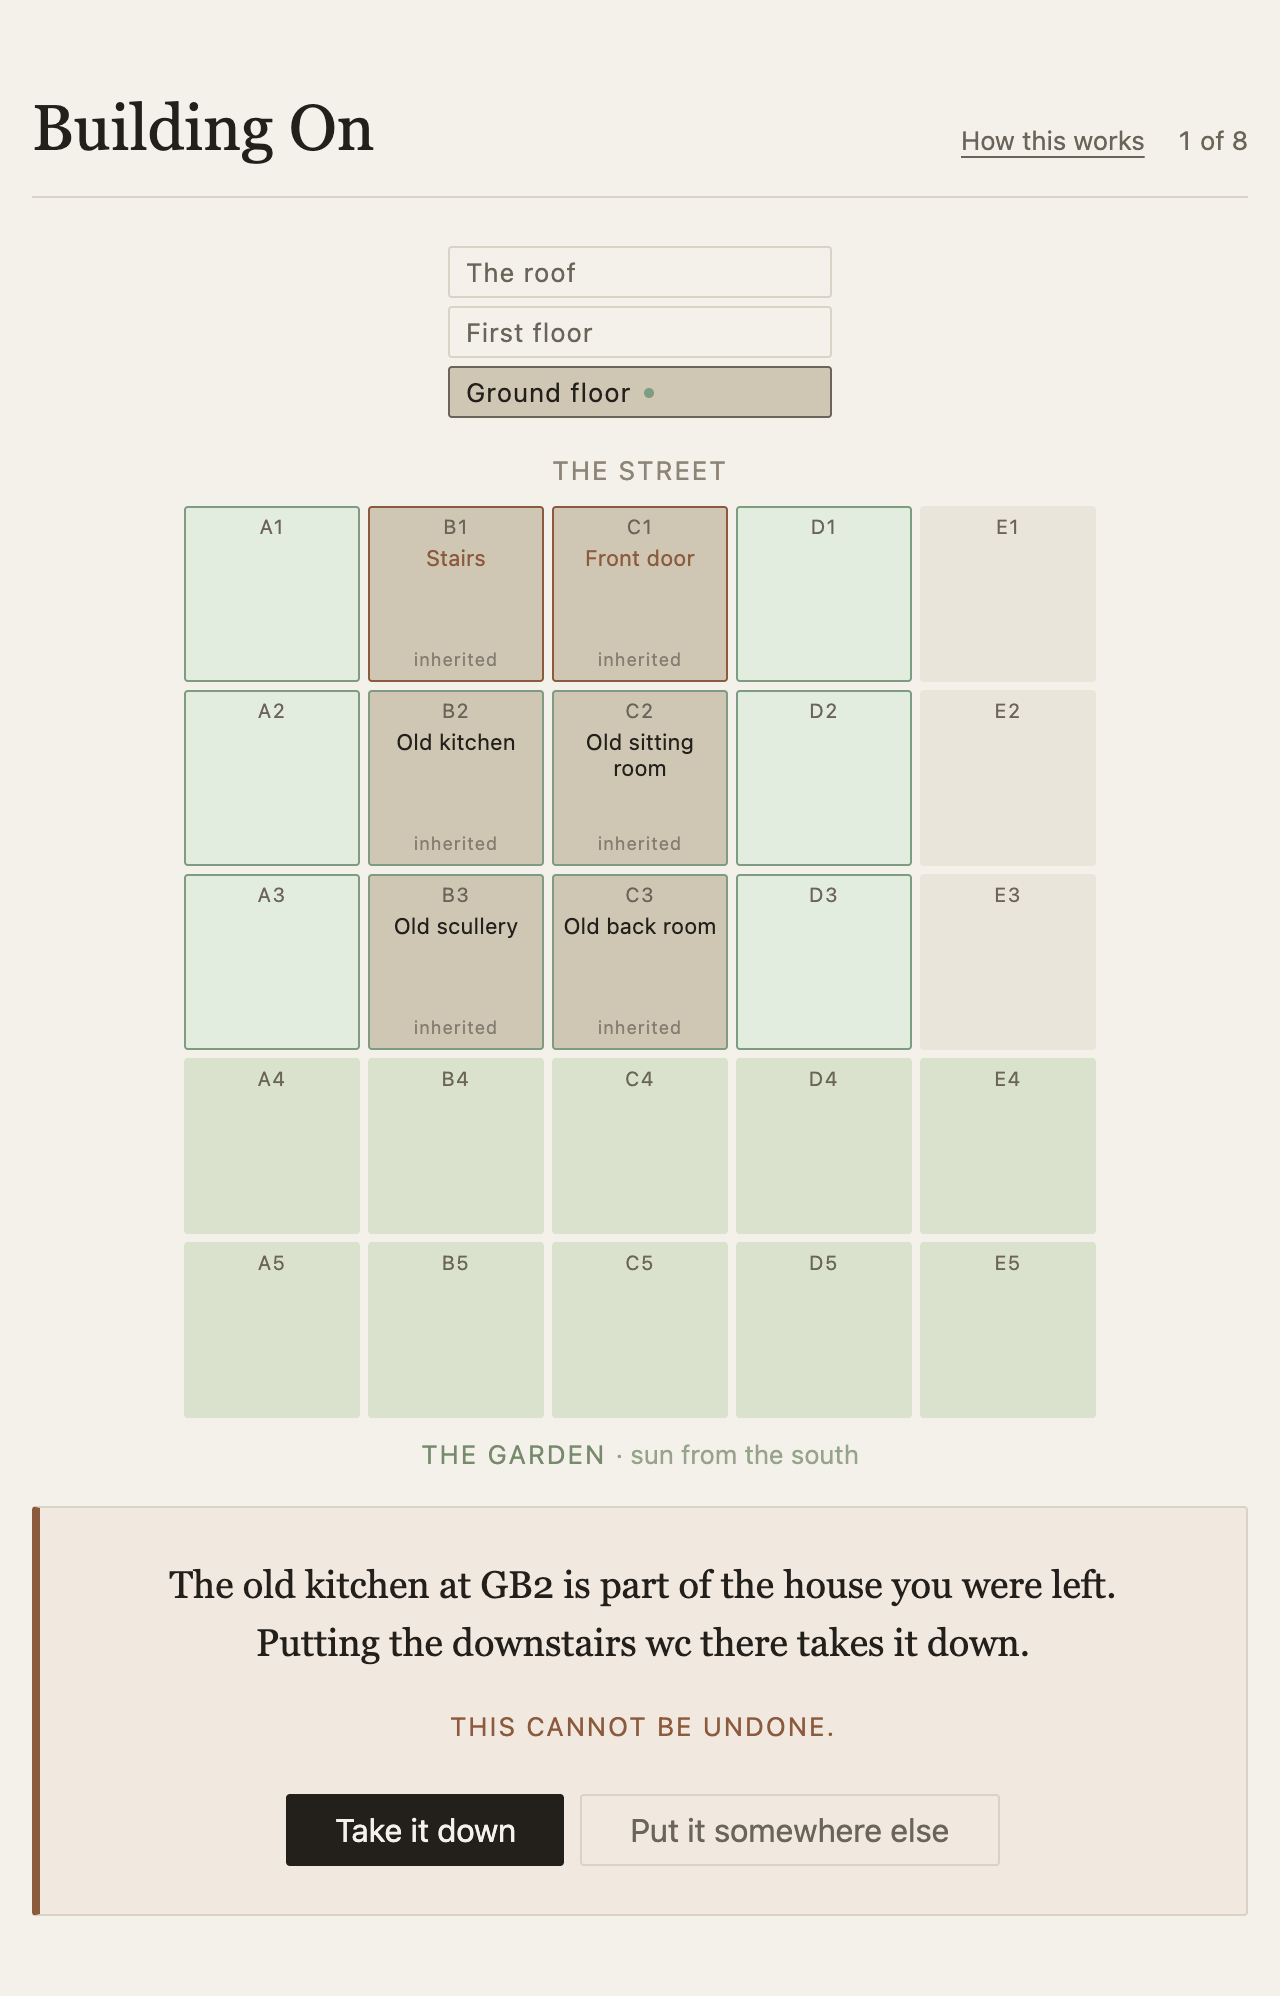
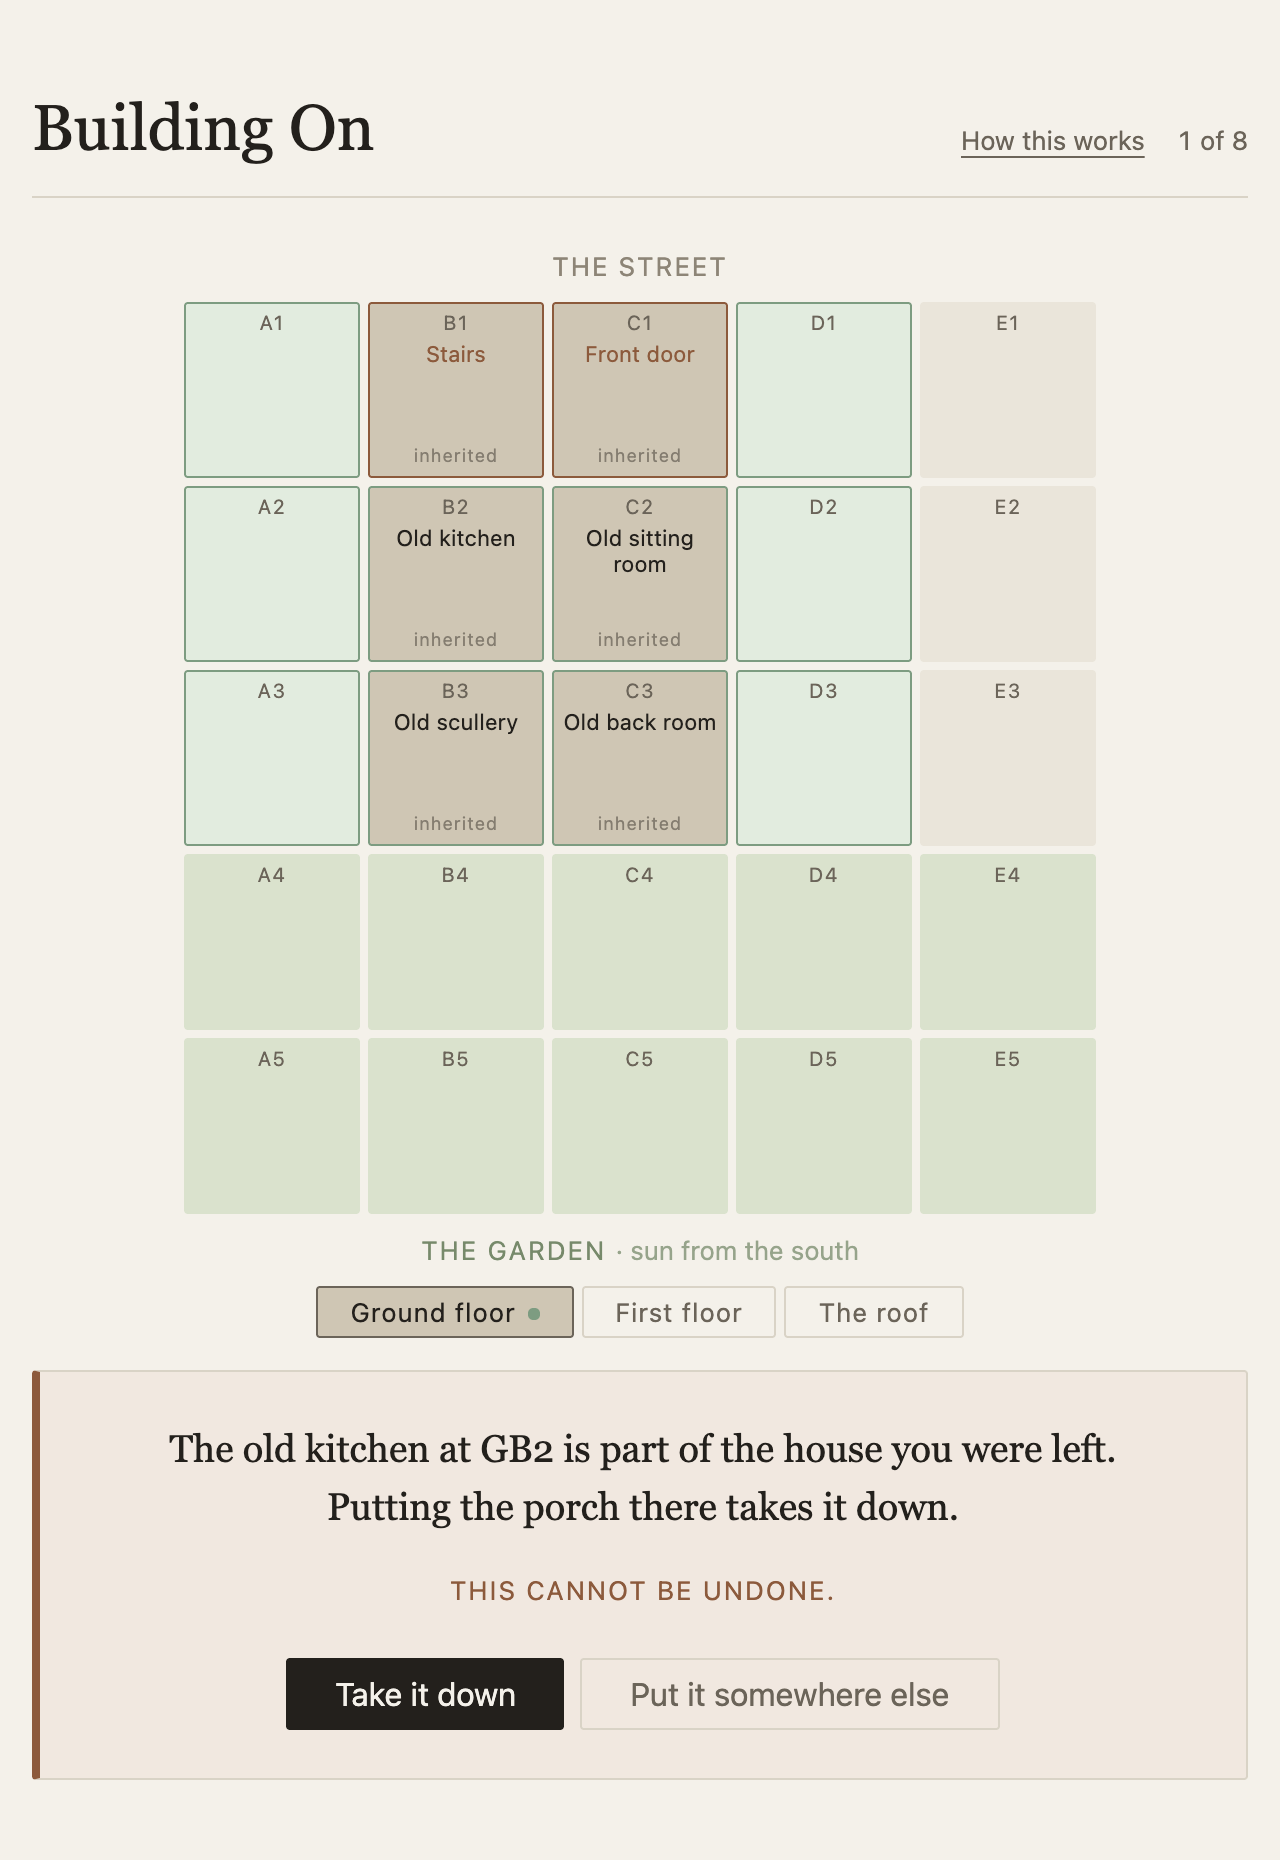
The board holds still, and the switcher moves under it
Two things playing M15 made obvious.

**Nothing below the board moves when the level changes.** The ground floor is
five rows and the upper levels are three, so switching moved the hand up by two
rows and the card the player was about to click went out from under the cursor.
The plot now reserves one envelope whichever level is shown — the street label,
five rows, the garden label — and the upper levels leave the last two empty.

Top-aligned rather than centred, which buys a second thing: every cell keeps the
same screen position on every level. B2 is where B2 was, so a switch reads as
looking up rather than as the page being redrawn.

The street label now shows on every level, which is not a concession to layout —
row 1 is the street elevation at every height, and `grid.ts` already said so. A
first-floor front bedroom faces the street exactly as the room under it does.
The garden label is hidden above the ground floor, because there is no garden
above a garden, but it keeps its line so the switcher does not move.

**The switcher moves below the board**, and turns horizontal: ground, first,
roof, left to right, going up. Choosing a level and choosing a plan are the same
gesture a beat apart, and the cursor should not have to cross the whole plot
between them. The vertical stack read like an elevation, which justified it
above the board; below the board it would only push the cards further away,
which is the thing being fixed.
[…]

diff --git a/src/components/Plot.tsx b/src/components/Plot.tsx
@@ -48,8 +48,16 @@ interface PlotProps {
   onPlace: (cell: CellId) => void;
 }
 
-/** Roof first, ground last — the switcher reads like the building stands. */
-const TOP_DOWN: readonly Level[] = [...LEVELS].reverse();
+/**
+ * Ground first, roof last — left to right is going up.
+ *
+ * The switcher sits *below* the board, beside the hand, because choosing a level
+ * and choosing a plan are the same gesture a beat apart and the cursor should
+ * not have to cross the whole plot between them. It was a vertical stack above
+ * the board when it read like an elevation; below the board a stack only pushes
+ * the cards further away, which is the thing being fixed.
+ */
+const BOTTOM_UP: readonly Level[] = LEVELS;
 
 export default function Plot({ state, deck, plot, copy, onPlace }: PlotProps) {
   const byId = new Map(deck.map((plan) => [plan.id, plan]));
@@ -107,35 +115,28 @@ export default function Plot({ state, deck, plot, copy, onPlace }: PlotProps) {
   const rows = shown === 'ground' ? ROWS : ROWS.filter((row) => row < state.gardenFromRow);
 
   return (
-    <div className={`plot${state.observation ? ' plot--reading' : ''}`}>
-      <div className="plot__levels" role="group" aria-label={copy.levelPicker}>
-        {TOP_DOWN.map((level) => (
-          <button
-            key={level}
-            type="button"
-            className="plot__level"
-            // Not a tab set: `aria-pressed` says the state without promising
-            // the arrow-key handling a tablist is read as offering.
-            aria-pressed={level === shown}
-            // §5 — a quiet mark on the levels the chosen plan could go on, so
-            // the switcher answers "where does this go" before it is touched.
-            data-legal={legal.some((cell) => levelOf(cell) === level)}
-            onClick={() => setShown(level)}
-          >
-            {copy.levels[level]}
-          </button>
-        ))}
-      </div>
-
-      {shown === 'ground' && <p className="plot__edge plot__edge--street">{copy.street}</p>}
+    /**
+     * §5 — the plot holds the same envelope whichever level is on screen: the
+     * street label, five rows of cells, the garden label. The upper levels fill
+     * three of those rows and leave the rest empty.
+     *
+     * That is deliberate, and it buys two things. Nothing below the board moves
+     * when the level changes — the hand stayed put instead of jumping by two
+     * rows — and every cell keeps the *same screen position* on every level, so
+     * B2 is where B2 was and switching reads as looking up rather than as the
+     * page being redrawn.
+     */
+    <div
+      className={`plot${state.observation ? ' plot--reading' : ''}`}
+      style={{ ['--plot-max-rows' as string]: ROWS.length }}
+    >
+      {/* §5 — row 1 is the street elevation at every height, so this is true on
+          every level: a first-floor front bedroom faces the street exactly as
+          the room under it does. */}
+      <p className="plot__edge plot__edge--street">{copy.street}</p>
 
       <div className="plot__frame">
-        <div
-          className="plot__grid"
-          role="grid"
-          aria-label={copy.levels[shown]}
-          style={{ ['--plot-rows' as string]: rows.length }}
-        >
+        <div className="plot__grid" role="grid" aria-label={copy.levels[shown]}>
           {rows.map((row) =>
             COLUMNS.map((column) => {
               const cell = cellId(shown, column, row);
@@ -194,11 +195,31 @@ export default function Plot({ state, deck, plot, copy, onPlace }: PlotProps) {
         </div>
       </div>
 
-      {shown === 'ground' && (
-        <p className="plot__edge plot__edge--garden">
-          {copy.garden} <span className="plot__sun">{copy.sun}</span>
-        </p>
-      )}
+      {/* …but there is no garden above a garden. Hidden rather than removed on
+          the upper levels, so it still holds its line and the switcher below it
+          does not move. */}
+      <p className="plot__edge plot__edge--garden" data-shown={shown === 'ground'}>
+        {copy.garden} <span className="plot__sun">{copy.sun}</span>
+      </p>
+
+      <div className="plot__levels" role="group" aria-label={copy.levelPicker}>
+        {BOTTOM_UP.map((level) => (
+          <button
+            key={level}
+            type="button"
+            className="plot__level"
+            // Not a tab set: `aria-pressed` says the state without promising
+            // the arrow-key handling a tablist is read as offering.
+            aria-pressed={level === shown}
+            // §5 — a quiet mark on the levels the chosen plan could go on, so
+            // the switcher answers "where does this go" before it is touched.
+            data-legal={legal.some((cell) => levelOf(cell) === level)}
+            onClick={() => setShown(level)}
+          >
+            {copy.levels[level]}
+          </button>
+        ))}
+      </div>
     </div>
   );
 }

diff --git a/e2e/play.spec.ts b/e2e/play.spec.ts
@@ -159,22 +159,30 @@ test.describe('the plot (§5, §12)', () => {
 
     const tabs = page.locator('.plot__level');
     await expect(tabs).toHaveCount(3);
-    // Top to bottom, the way the building stands.
+    // Left to right is going up, and the ground floor comes first because that
+    // is where a game starts.
     await expect(tabs).toHaveText([
-      ui.plot.levels.roof,
-      ui.plot.levels.first,
       ui.plot.levels.ground,
+      ui.plot.levels.first,
+      ui.plot.levels.roof,
     ]);
+    // …and below the board, next to the hand it is used alongside.
+    const board = await page.locator('.plot__frame').boundingBox();
+    const switcher = await page.locator('.plot__levels').boundingBox();
+    expect(board!.y + board!.height).toBeLessThanOrEqual(switcher!.y);
+
     await expect(page.getByRole('grid')).toHaveCount(1);
     await expect(page.getByRole('grid', { name: ui.plot.levels.ground })).toBeVisible();
 
     // §5 — the upper levels are the building only, so they stop where the
-    // garden starts, and the street and garden labels stay with the ground.
+    // garden starts. The street label stays: row 1 is the street elevation at
+    // every height. The garden label does not, because there is no garden above
+    // a garden — but it keeps its line, so nothing below it moves.
     await showLevel(page, ui.plot.levels.first);
     await expect(page.getByRole('grid', { name: ui.plot.levels.first })).toBeVisible();
     await expect(page.getByRole('gridcell')).toHaveCount(15);
-    await expect(page.locator('.plot__edge--street')).toHaveCount(0);
-    await expect(page.locator('.plot__edge--garden')).toHaveCount(0);
+    await expect(page.locator('.plot__edge--street')).toBeVisible();
+    await expect(page.locator('.plot__edge--garden')).toBeHidden();
 
     // §5 — the stair arrives at an inherited landing. It is what seeds the
     // first floor, so it is standing before anything is built.
@@ -183,6 +191,37 @@ test.describe('the plot (§5, §12)', () => {
 
     await showLevel(page, ui.plot.levels.ground);
     await expect(page.getByRole('gridcell')).toHaveCount(25);
+  });
+
+  /**
+   * §5 — switching levels must not move anything. The ground floor is five rows
+   * and the upper levels are three, so the board reserves the tallest and the
+   * short levels leave the last two rows empty. Without that the hand jumped up
+   * by two rows every time the player looked upstairs, and the card they were
+   * about to click moved out from under the cursor.
+   */
+  test('holds everything still when the level changes', async ({ page }) => {
+    await start(page);
+
+    const top = async (selector: string) =>
+      Math.round((await page.locator(selector).boundingBox())!.y);
+    const cellAtA1 = async () =>
+      Math.round((await page.getByRole('gridcell').first().boundingBox())!.y);
+
+    const before = {
+      grid: await cellAtA1(),
+      switcher: await top('.plot__levels'),
+      hand: await top('.hand'),
+    };
+
+    for (const level of [ui.plot.levels.first, ui.plot.levels.roof]) {
+      await showLevel(page, level);
+      // A1 is A1 at the same height on every level, so a switch reads as
+      // looking up rather than as the page being redrawn.
+      expect(await cellAtA1()).toBe(before.grid);
+      expect(await top('.plot__levels')).toBe(before.switcher);
+      expect(await top('.hand')).toBe(before.hand);
+    }
   });
 
   /**

diff --git a/src/app.css b/src/app.css
@@ -183,20 +183,17 @@
  */
 .plot__levels {
   display: flex;
-  flex-direction: column;
-  align-items: stretch;
+  flex-wrap: wrap;
+  justify-content: center;
   gap: var(--space-1);
-  width: fit-content;
-  min-width: 12rem;
-  margin: 0 auto var(--space-3);
+  margin: var(--space-2) auto 0;
 }
 
 .plot__level {
   font-family: var(--font-ui);
   font-size: var(--size-small);
   letter-spacing: 0.04em;
-  text-align: left;
-  padding: var(--space-1) var(--space-2);
+  padding: var(--space-1) var(--space-3);
   border: 1px solid var(--colour-rule);
   border-radius: var(--radius);
   background: transparent;
@@ -248,15 +245,39 @@
   color: var(--colour-garden);
 }
 
+/**
+ * §5 — there is no garden above a garden, but the line still holds its place.
+ * `visibility` rather than `display`, so the switcher below it does not move
+ * when the level changes — and it leaves the accessibility tree too, so nothing
+ * announces a garden that is not there.
+ */
+.plot__edge--garden[data-shown='false'] {
+  visibility: hidden;
+}
+
 .plot__sun {
   text-transform: none;
   letter-spacing: 0;
   opacity: 0.75;
 }
 
+/**
+ * §5 — the board reserves the tallest level's height whichever level is shown,
+ * so switching does not move anything below it. The ground floor is five rows;
+ * the first floor and the roof are three and leave the last two empty.
+ *
+ * Top-aligned, not centred: row 1 is the street at every height, so keeping it
+ * at the same y makes each cell hold its screen position across levels. B2 is
+ * where B2 was, and the switch reads as looking up rather than as a redraw.
+ */
 .plot__frame {
   display: flex;
   justify-content: center;
+  align-items: flex-start;
+  min-height: calc(
+    var(--plot-max-rows) * var(--cell-size) +
+      (var(--plot-max-rows) - 1) * var(--space-1)
+  );
 }
 
 .plot__grid {

diff --git a/GDD.md b/GDD.md
@@ -142,6 +142,17 @@ it to the level that plan goes on. Stacking all three as an elevation was the ot
 option: it was not taken because it shrinks the cells past the point where a room's name
 fits, in order to show two levels that are empty for most of the game.
 
+The switcher sits **below the board**, next to the hand: choosing a level and choosing a
+plan are the same gesture a beat apart, and the cursor should not have to cross the plot
+between them.
+
+**The board holds one envelope whichever level is shown** — the street label, five rows,
+the garden label — and the upper levels fill three of those rows and leave the rest
+empty. Nothing below the board moves when the level changes, and **every cell keeps the
+same screen position on every level**, so switching reads as looking up rather than as
+the page being redrawn. The cost is visible empty space above the switcher on the upper
+levels, which is the honest shape of a building that is deeper at the bottom.
+
 **[Design note]** One cell per plan is a deliberate simplification. Variable room
 footprints would make this a spatial puzzle, and a spatial puzzle is a different game
 — the player would optimise packing instead of thinking about neighbours.
